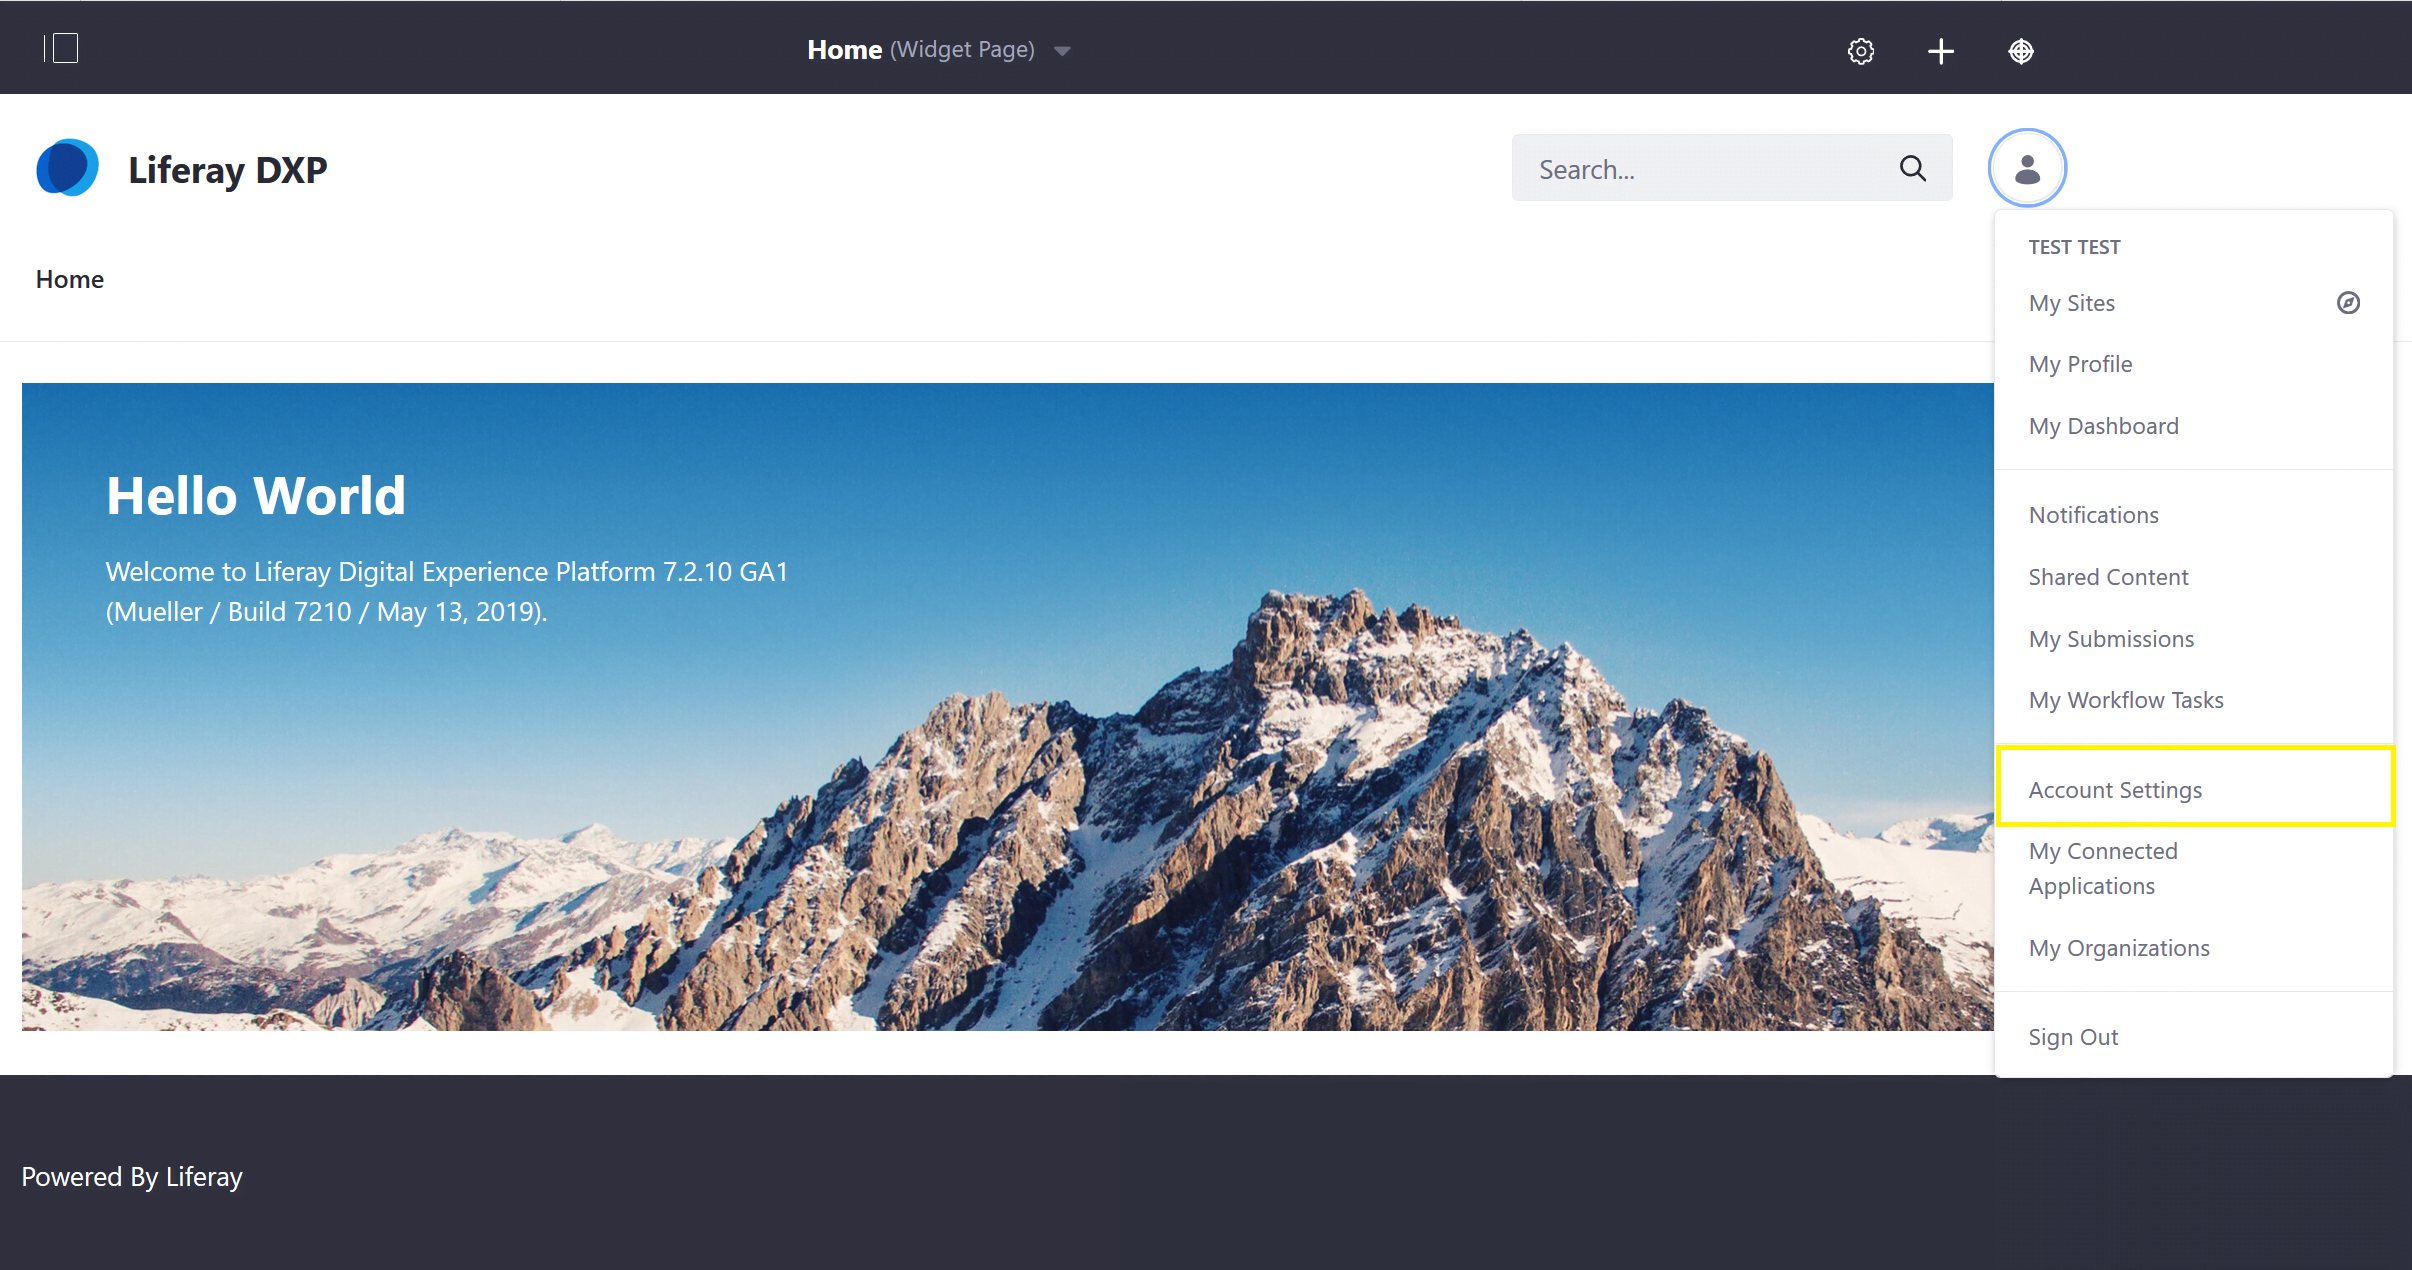
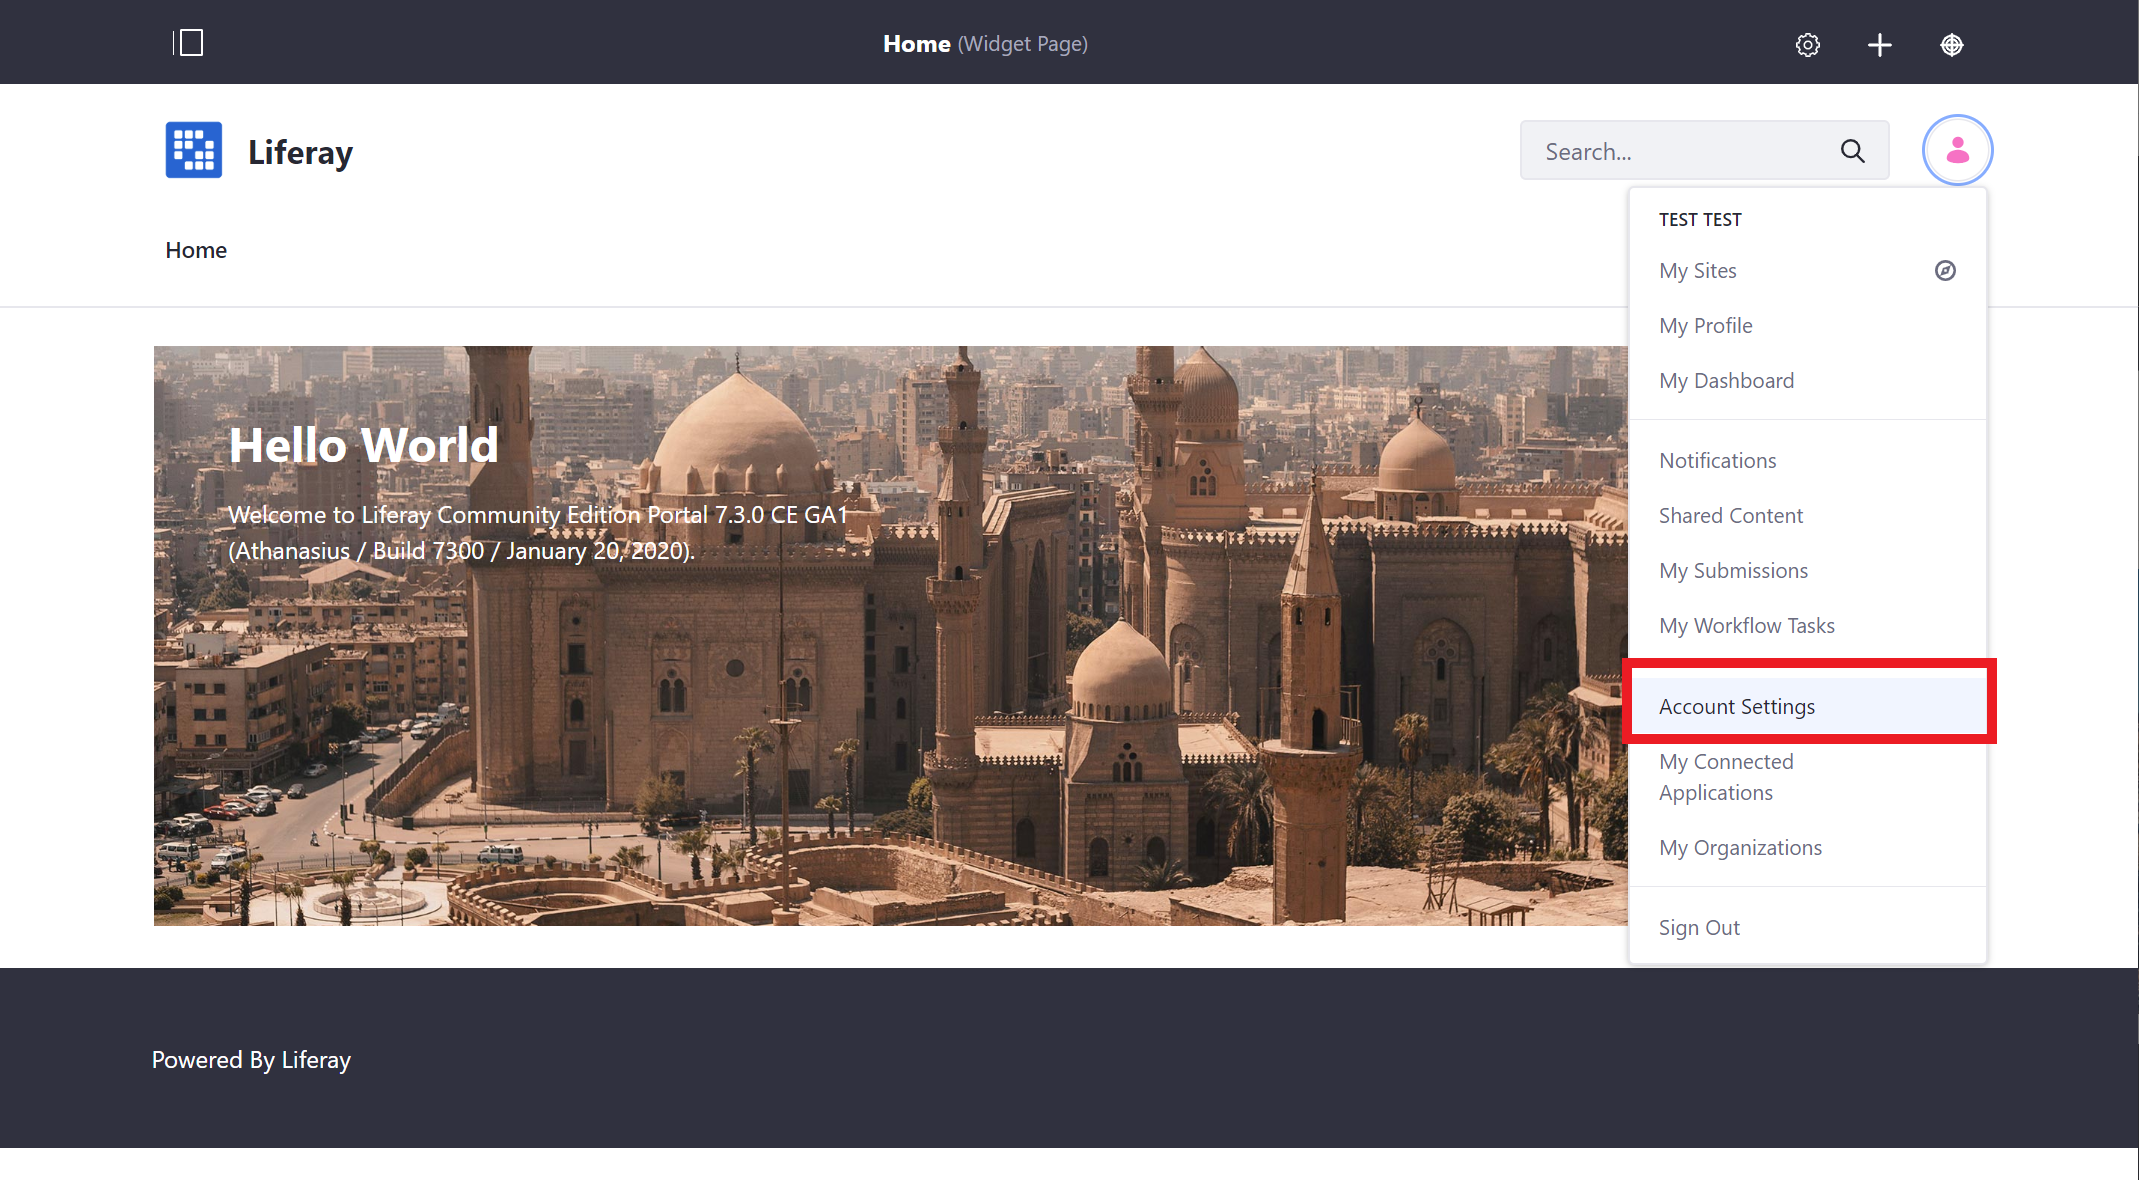
Add admonitions and update images for 7.3

diff --git a/docs/dxp/7.x/en/getting-started/introduction-to-the-admin-account.md b/docs/dxp/7.x/en/getting-started/introduction-to-the-admin-account.md
@@ -9,14 +9,18 @@ The Admin user is created by default in any new installation of Liferay DXP and 
 
     ![Sign In Link](./introduction-to-the-admin-account/images/01.png "Sign In Link")
 
-    > **Note:** If a Liferay DXP bundle is being used, you may be presented with the [_Setup Wizard_](../installation-and-upgrades/installing-liferay/running-liferay-dxp-for-the-first-time.md). Follow the on-screen instructions to configure your Admin user.
+    ```note::
+       If a Liferay DXP bundle is being used, you may be presented with the `Setup Wizard <../installation-and-upgrades/installing-liferay/running-liferay-dxp-for-the-first-time.md>`_. Follow the on-screen instructions to configure your Admin user.
+    ```
 
 1. Enter the default admin credentials to log in.
 
     * Email address: `test@liferay.com`
     * Password: `test`
 
-    > **Important:** It is **highly** recommended that the default login credentials be updated when starting a new Liferay DXP installation.
+    ```warning::
+       It is **highly** recommended that the default login credentials be updated when starting a new Liferay DXP installation.
+    ```
 
 ## Configuring the Admin User
 
